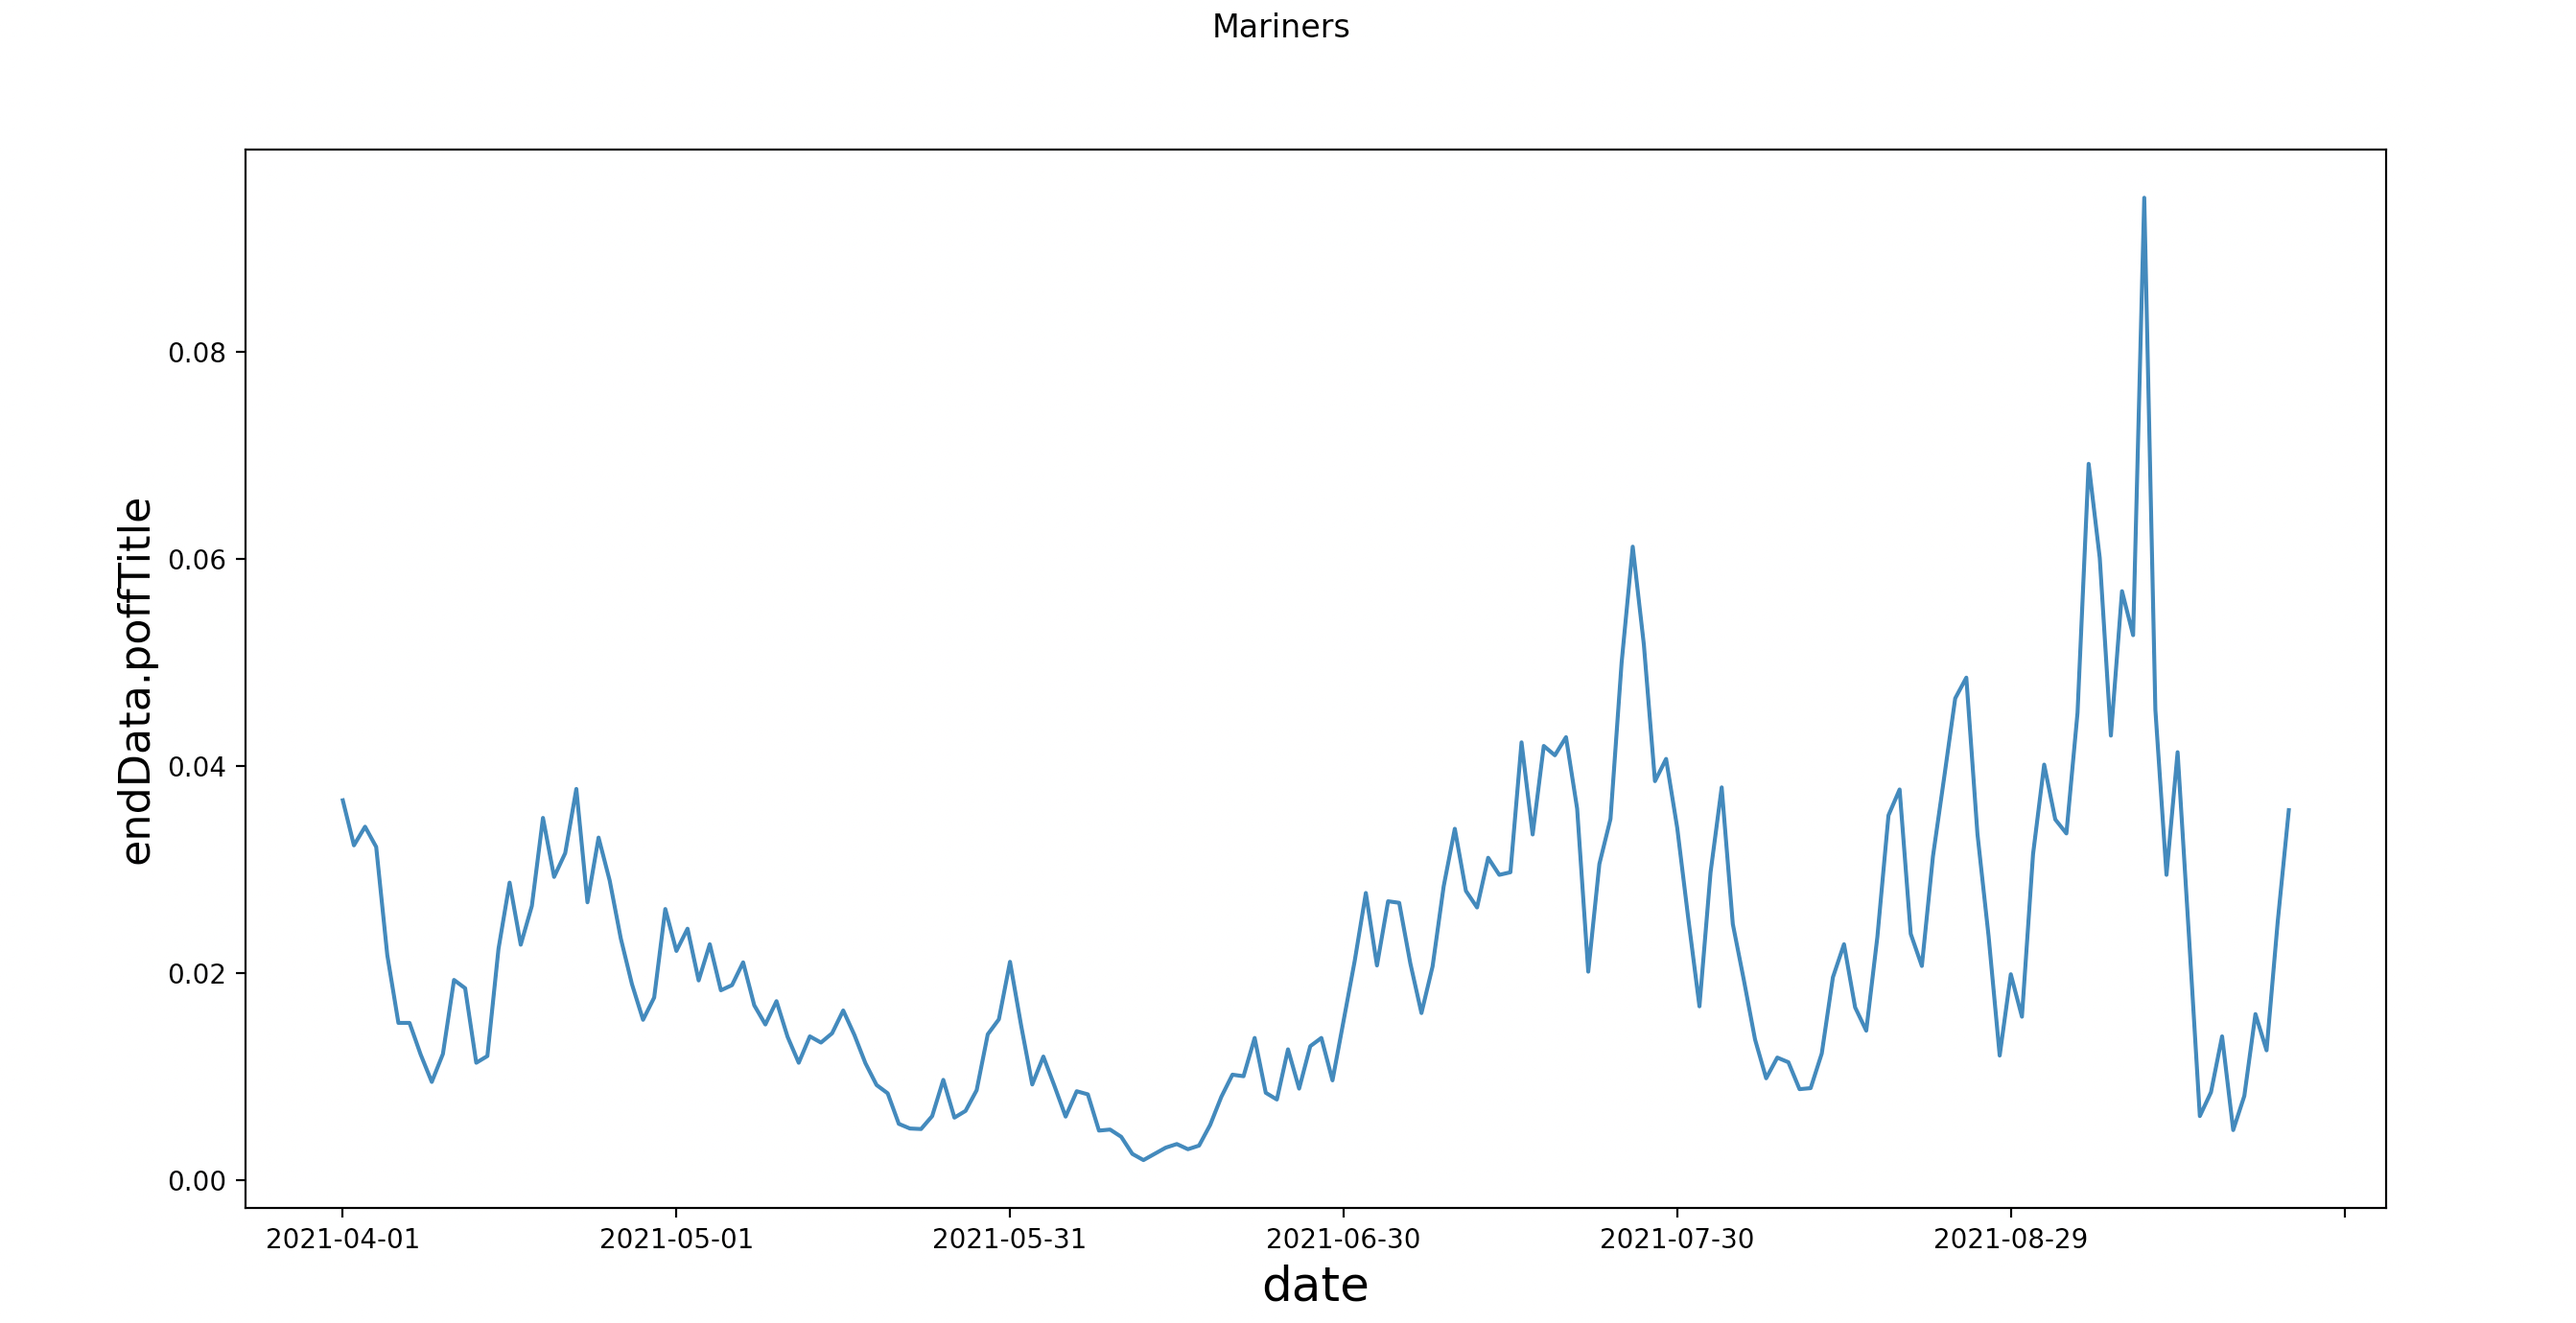
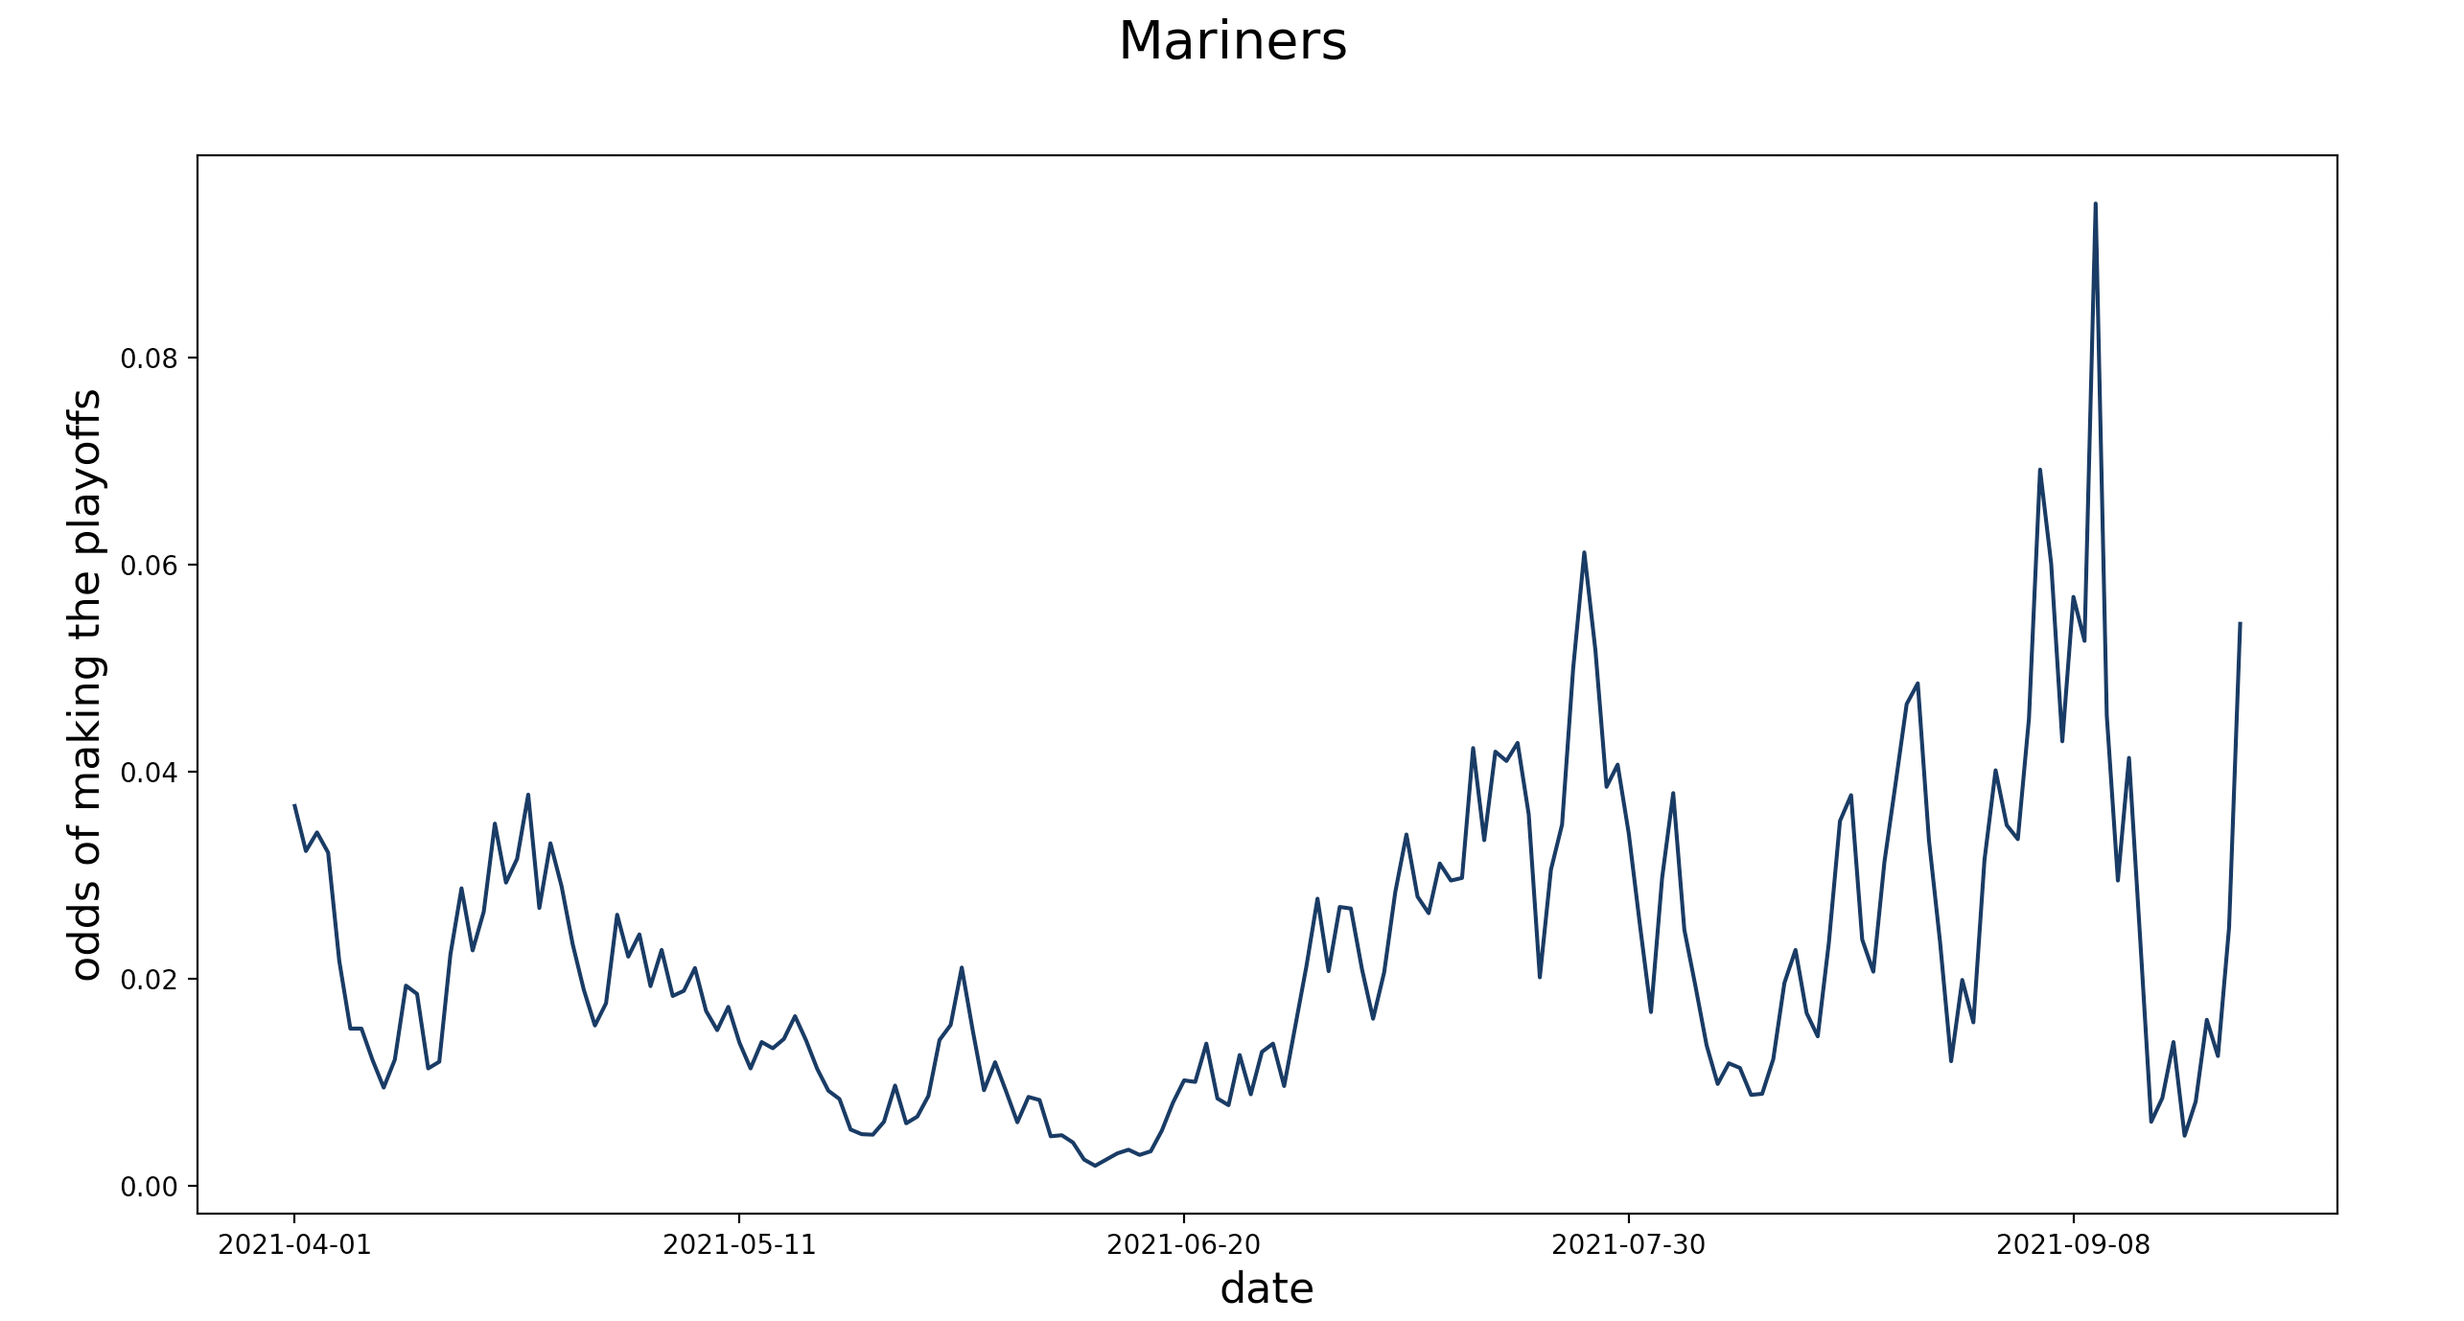
add team colors, stat descriptions

diff --git a/constants.py b/constants.py
@@ -1,0 +1,51 @@
+team_colors = {
+    "Diamondbacks": "#A71930",
+    "Braves": "#CE1141",
+    "Orioles": "#DF4601",
+    "Red Sox": "#BD3039",
+    "Cubs": "#0E3386",
+    "White Sox": "#27251F",
+    "Reds": "#C6011F",
+    "Cleveland": "0C2340",
+    "Rockies": "#33006F",
+    "Tigers": "#0C2340",
+    "Astros": "#002D62",
+    "Royals": "#004687",
+    "Angels": "#003263",
+    "Dodgers": "#005A9C",
+    "Marlins": "#00A3E0",
+    "Brewers": "#FFC52F",
+    "Twins": "#002B5C",
+    "Mets": "#002D72",
+    "Yankees": "#003087",
+    "Athletics": "#003831",
+    "Phillies": "#E81828",
+    "Pirates": "#27251F",
+    "Cardinals": "#C41E3A",
+    "Padres": "#2F241D",
+    "Giants": "#FD5A1E",
+    "Mariners": "#0C2C56",
+    "Rays": "#092C5C",
+    "Rangers": "#003278",
+    "Blue Jays": "#134A8E",
+    "Nationals": "#AB0003"
+}
+
+stat_descriptions = {
+    "W": "wins",
+    "L": "losses",
+    "Wpct": "win percentage",
+    "GB": "games back in the division",
+    "WCGB": "games back in the wildcard",
+    "endData.ExpW": "expected wins",
+    "endData.ExpL": "expected losses",
+    "endData.rosW": "rest of season win percentage",
+    "endData.divTitle": "odds of winning the division",
+    "endData.wcTitle": "odds of winning the wildcard",
+    "endData.poffTitle": "odds of making the playoffs",
+    "endData.wcWin": "odds of advancing to the division series",
+    "endData.dsWin": "odds of advancing to the league championship series",
+    "endData.csWin": "odds of advancing to the world series",
+    "endData.wsWin": "odds of winning the world series",
+    "endData.sos": "strength of schedule"
+}

diff --git a/run.py b/run.py
@@ -3,9 +3,10 @@ from datetime import datetime
 import requests
 import pandas as pd
 import matplotlib.pyplot as plt
-import matplotlib.ticker as ticker
 import csv
 import sys
+
+from constants import *
 
 
 def dates_bwn_twodates(start_date, end_date):
@@ -55,17 +56,14 @@ if __name__ == "__main__":
     team_data = pd.read_csv(filename, sep=',')
     team_data = team_data.loc[team_data['shortName'] == team]
 
-    tick_spacing = 30
-
     fig, ax = plt.subplots(1,1)
-    ax.plot(team_data['date'], team_data[stat])
+    ax.plot(team_data['date'], team_data[stat], color=team_colors[team])
 
-    plt.xlabel('date', fontsize=18)
-    plt.ylabel(stat, fontsize=16)
+    plt.xlabel('date', fontsize=16)
+    plt.ylabel(stat_descriptions[stat], fontsize=16)
 
-    fig.suptitle(team, fontsize=12)
-
-    ax.xaxis.set_major_locator(ticker.MultipleLocator(tick_spacing))
+    fig.suptitle(team, fontsize=20)
+    ax.xaxis.set_major_locator(plt.MaxNLocator(5))
 
     plt.show()
 

diff --git a/README.md b/README.md
@@ -30,10 +30,40 @@ Get the Mariners' win percentage over the course of the 2021 season, but don't r
 python run.py Mariners Wpct
 ```
 
-#### List of stats you can use (See Fangraphs for Data Definitions)
+#### List of stats you can use
 
 ```
-['W', 'L', 'Wpct', 'GB', 'WCGB', 'dateEnd', 'deltaData', 'endData.ExpW', 'endData.ExpL', 'endData.rosW', 'endData.divTitle', 'endData.div2Title', 'endData.wcTitle', 'endData.poffTitle', 'endData.wcWin', 'endData.dsWin', 'endData.csWin', 'endData.wsWin', 'endData.sos']
+W - wins
+
+L - losses
+
+Wpct - win percentage
+
+GB - games back in the division
+
+WCGB - games back in the wildcard
+
+endData.ExpW - expected wins
+
+endData.ExpL - expected losses
+
+endData.rosW - rest of season win percentage
+
+endData.divTitle - odds of winning the division
+
+endData.wcTitle - odds of winning the wildcard
+
+endData.poffTitle - odds of making the playoffs
+
+endData.wcWin - odds of advancing to the division series
+
+endData.dsWin - odds of advancing to the league championship series
+
+endData.csWin - odds of advancing to the world series
+
+endData.wsWin - odds of winning the world series
+
+endData.sos - strength of schedule
 ```
 
 #### Example Output
